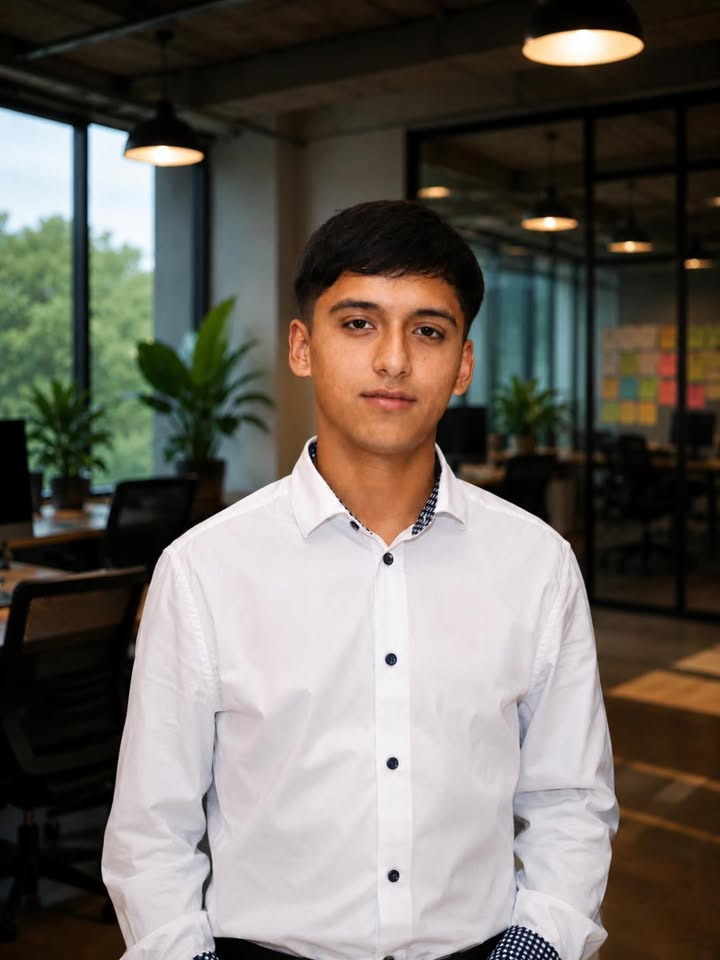
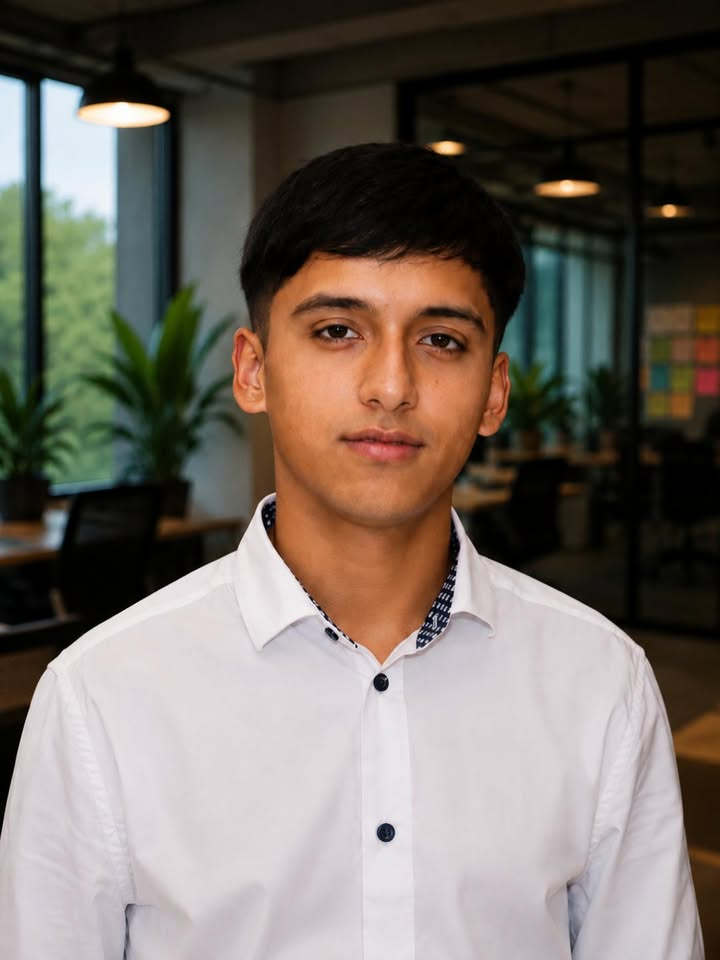
feat(team): el nav se retira al abrir el perfil + arreglos del drawer
Pedido: que el menu desaparezca mientras el perfil esta abierto y vuelva
al cerrarlo. TeamDrawer marca el <body> al abrir y el CSS retira el
nav-shell con un fundido; al cerrar se quita la marca. El drawer entra
por la derecha y el menu flotante le quedaba encima.

Ademas, dos cosas que aparecieron al verificarlo:

1. El nombre y la miniatura del perfil no se veian. `landing.css` trae una
   regla global `[data-stagger] > * { opacity: 0 }` para el reveal del
   home, que solo se levanta cuando el contenedor recibe `.in` — algo que
   en /team nunca ocurre. El drawer reutilizaba ese mismo atributo como
   marcador para GSAP, asi que sus hijos quedaban invisibles (la
   biografia se salvaba porque ella misma lleva el atributo). Pasa a usar
   `data-drawer-stagger`, propio, sin colision.

2. Cada componente mantenia su propia copia de MEMBERS_WITH_PHOTO y se
   habian desincronizado: la del drawer no incluia a Cristian, asi que su
   retrato salia en la grilla pero no al abrir el perfil. Ahora sale de
   members.ts, junto a los datos.

Foto de Vicente reemplazada por la version de encuadre cercano, a tono
con los otros cuatro retratos.

diff --git a/src/features/team/components/TeamDrawer.tsx b/src/features/team/components/TeamDrawer.tsx
@@ -2,9 +2,10 @@
 
 import { useEffect, useRef, useCallback } from "react";
 import Image from "next/image";
-import type { Member } from "../data/members";
+import { MEMBERS_WITH_PHOTO, type Member } from "../data/members";
 
-const MEMBERS_WITH_PHOTO = new Set(["ignacio-navarrete", "fabian-melivilu", "vicente-garcia", "joseph-mailens"]);
+/** Marca en el <body> mientras el perfil está abierto. */
+const BODY_DRAWER_ABIERTO = "team-drawer-abierto";
 
 interface TeamDrawerProps {
   member: Member | null;
@@ -32,7 +33,13 @@ export default function TeamDrawer({ member, onClose }: TeamDrawerProps) {
     tlRef.current?.kill();
     gsap.set([l1, l2, panel], { x: 0 });
 
-    const staggerEls = Array.from(panel.querySelectorAll<HTMLElement>("[data-stagger]"));
+        /* Atributo propio, no `data-stagger`.
+       `landing.css` trae una regla global `[data-stagger] > * { opacity: 0 }`
+       pensada para el reveal del home, que solo se levanta cuando el contenedor
+       recibe `.in` — algo que en /team nunca ocurre. Al reutilizar el mismo
+       nombre acá, el nombre y la miniatura del perfil quedaban invisibles
+       (la biografía se salvaba porque ella misma lleva el atributo). */
+    const staggerEls = Array.from(panel.querySelectorAll<HTMLElement>("[data-drawer-stagger]"));
     if (staggerEls.length) gsap.set(staggerEls, { y: 20, opacity: 0 });
 
     const tl = gsap.timeline();
@@ -67,18 +74,28 @@ export default function TeamDrawer({ member, onClose }: TeamDrawerProps) {
     });
   }, []);
 
+  /**
+   * Con el perfil abierto marcamos el <body>. El CSS usa esa marca para retirar
+   * el nav flotante: el panel entra por la derecha y el menú quedaba encima,
+   * compitiendo con el perfil. Al cerrar se quita la marca y el nav vuelve.
+   */
   useEffect(() => {
     if (isOpen) {
       hasOpenedRef.current = true;
       document.body.style.overflow = "hidden";
+      document.body.classList.add(BODY_DRAWER_ABIERTO);
       playOpen();
       const t = setTimeout(() => closeRef.current?.focus(), 300);
       return () => clearTimeout(t);
     } else if (hasOpenedRef.current) {
       document.body.style.overflow = "";
+      document.body.classList.remove(BODY_DRAWER_ABIERTO);
       playClose();
     }
-    return () => { document.body.style.overflow = ""; };
+    return () => {
+      document.body.style.overflow = "";
+      document.body.classList.remove(BODY_DRAWER_ABIERTO);
+    };
   }, [isOpen, member, playOpen, playClose]);
 
   useEffect(() => {
@@ -137,7 +154,7 @@ export default function TeamDrawer({ member, onClose }: TeamDrawerProps) {
         {member && (
           <div className="team-drawer__content">
             {/* Header: nombre + thumbnail */}
-            <div data-stagger className="team-drawer__header">
+            <div data-drawer-stagger className="team-drawer__header">
               <div className="team-drawer__header-text">
                 <p className="team-drawer__role">{member.role}</p>
                 <h2 className="team-drawer__name" id="drawer-member-name">
@@ -160,7 +177,7 @@ export default function TeamDrawer({ member, onClose }: TeamDrawerProps) {
 
             {/* LinkedIn como texto link simple */}
             {member.linkedin && (
-              <div data-stagger className="team-drawer__link-row">
+              <div data-drawer-stagger className="team-drawer__link-row">
                 <a
                   href={member.linkedin}
                   target="_blank"
@@ -172,16 +189,16 @@ export default function TeamDrawer({ member, onClose }: TeamDrawerProps) {
               </div>
             )}
 
-            <div data-stagger className="team-drawer__divider" />
+            <div data-drawer-stagger className="team-drawer__divider" />
 
             {/* Bio */}
             {member.bio && (
-              <p data-stagger className="team-drawer__bio">{member.bio}</p>
+              <p data-drawer-stagger className="team-drawer__bio">{member.bio}</p>
             )}
 
             {/* Portafolio (si existe, como enlace secundario) */}
             {member.portfolio && (
-              <div data-stagger className="team-drawer__links">
+              <div data-drawer-stagger className="team-drawer__links">
                 <a
                   href={member.portfolio}
                   target="_blank"

diff --git a/src/features/team/equipo.css b/src/features/team/equipo.css
@@ -499,3 +499,23 @@
   flex-wrap: wrap;
   margin-top: 28px;
 }
+
+/* ── El nav se retira mientras el perfil está abierto ──────────────────────
+   El drawer entra por la derecha y el menú flotante le quedaba encima. La
+   clase la pone TeamDrawer en el <body> al abrir y la quita al cerrar.
+   La transición va en .nav-shell (que no tenía ninguna; la de .nav-pill anima
+   otras propiedades y no se pisa). */
+.nav-shell {
+  transition: opacity 0.28s ease, transform 0.28s ease;
+}
+
+body.team-drawer-abierto .nav-shell {
+  opacity: 0;
+  transform: translateY(-14px);
+  pointer-events: none;
+}
+
+@media (prefers-reduced-motion: reduce) {
+  .nav-shell { transition: opacity 0.15s ease; }
+  body.team-drawer-abierto .nav-shell { transform: none; }
+}

diff --git a/src/features/team/data/members.ts b/src/features/team/data/members.ts
@@ -76,3 +76,18 @@ export const members: Member[] = [
     portfolio: "",
   },
 ];
+
+/**
+ * Miembros con foto en `public/team/<id>.jpg`.
+ *
+ * Vive acá, junto a los datos, porque antes cada componente mantenía su propia
+ * copia y se desincronizaron: la del drawer no incluía a Cristian, así que su
+ * retrato salía en la grilla pero no al abrir el perfil.
+ */
+export const MEMBERS_WITH_PHOTO = new Set<string>([
+  "ignacio-navarrete",
+  "vicente-garcia",
+  "cristian-de-la-fuente",
+  "joseph-mailens",
+  "fabian-melivilu",
+]);

diff --git a/src/features/team/components/TeamClient.tsx b/src/features/team/components/TeamClient.tsx
@@ -1,11 +1,9 @@
 "use client";
 
 import { useState, useCallback, useEffect, useRef } from "react";
-import { members, type Member, type MemberCategory } from "../data/members";
+import { members, MEMBERS_WITH_PHOTO, type Member, type MemberCategory } from "../data/members";
 import TeamCard from "./TeamCard";
 import TeamDrawer from "./TeamDrawer";
-
-const MEMBERS_WITH_PHOTO = new Set(["ignacio-navarrete", "fabian-melivilu", "vicente-garcia", "joseph-mailens", "cristian-de-la-fuente"]);
 
 type FilterValue = "all" | MemberCategory;
 
